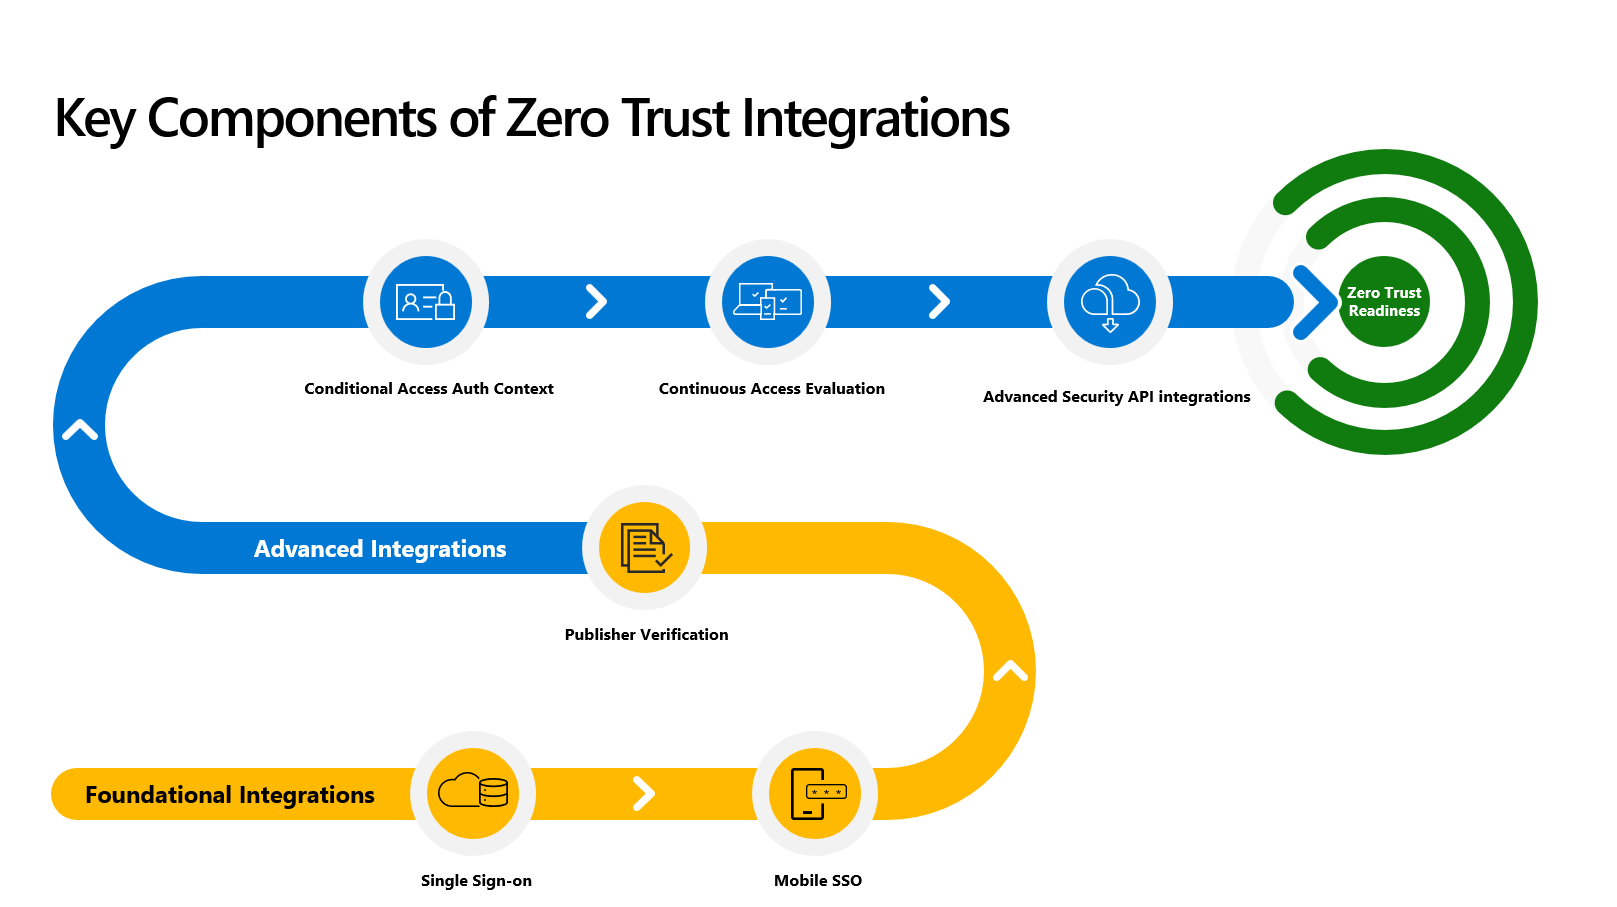
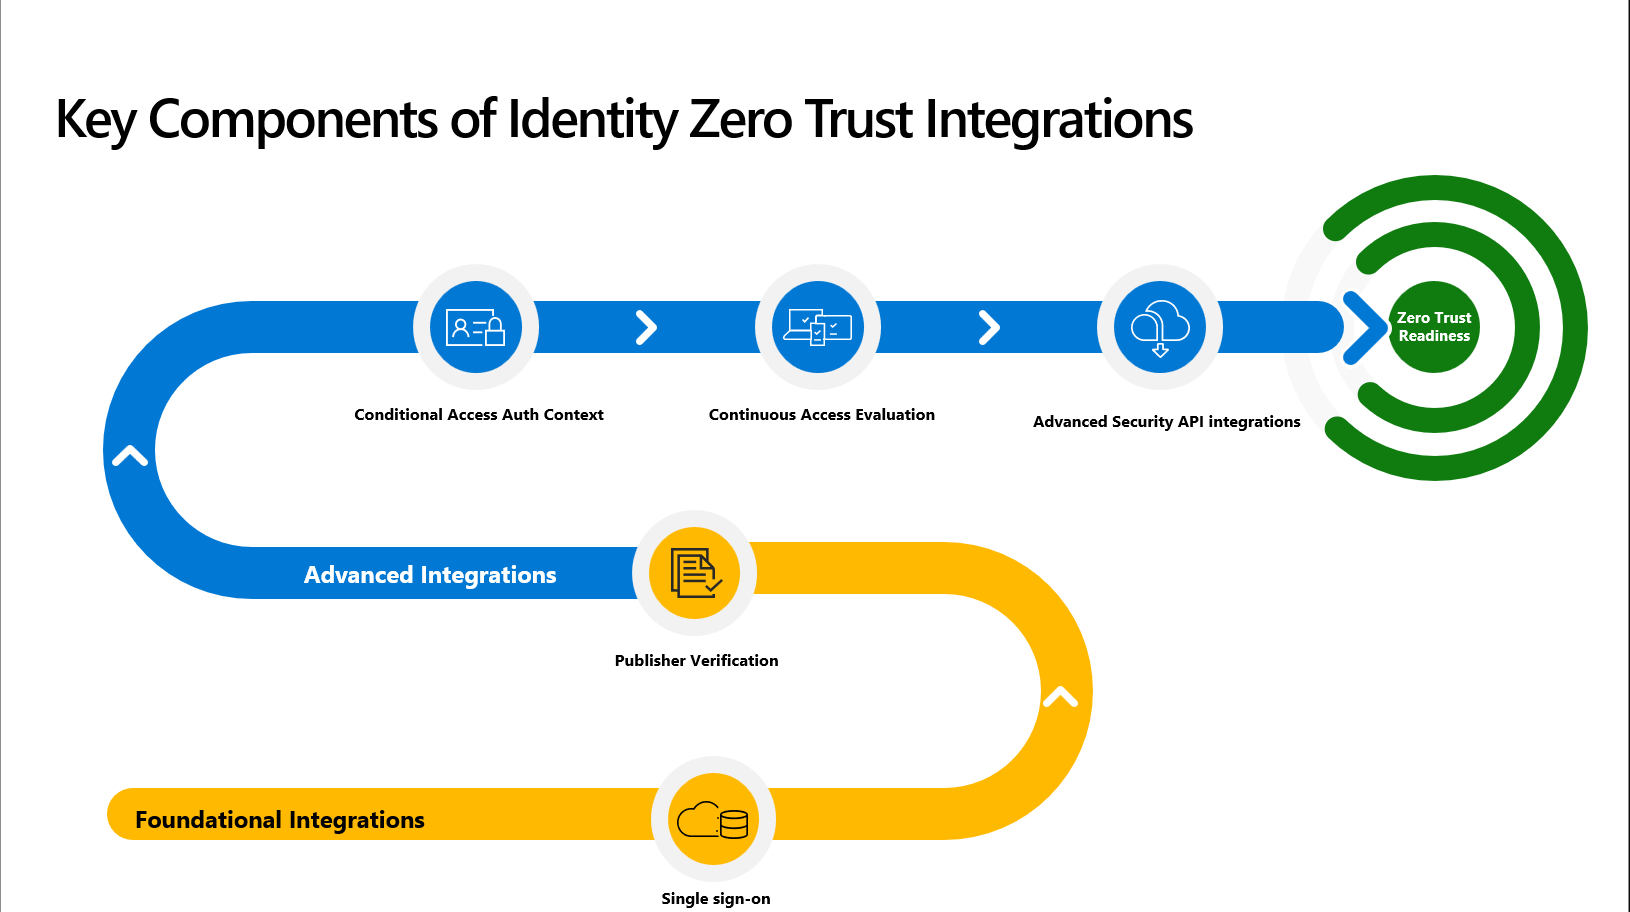
Updating further based on final convos

diff --git a/zero-trust/integrate/identity.md b/zero-trust/integrate/identity.md
@@ -26,7 +26,7 @@ Azure Active Directory B2C is a business-to-customer identity access management 
 
 ## Azure Active Directory
 
-There are many ways to integrate your solution with Azure Active Directory. Foundational integrations are about protecting your customers using Azure Active Directory's built-in security capabilities. Advanced integrations will take your solution even one step further.
+There are many ways to integrate your solution with Azure Active Directory. Foundational integrations are about protecting your customers using Azure Active Directory's built-in security capabilities. Advanced integrations will take your solution one step further with enhanced security capabilities.
 
 :::image type="icon" source="../media/integrate/identity/azure-active-directory-zero-trust-levels.png":::
 
@@ -34,21 +34,21 @@ There are many ways to integrate your solution with Azure Active Directory. Foun
 
 Foundational integrations protect your customers with Azure Active Directory's built-in security capabilities.
 
-#### List your app in the Azure Active Directory App Gallery
+#### Enable single sign-on and publisher verification
 
 To enable single sign-on, we recommend publishing your app in [the app gallery](https://www.microsoft.com/security/business/identity-access-management/integrated-apps-azure-ad). This will increase customer trust, because they know that your application has been validated as compatible with Azure Active Directory, and you can become a [verified publisher](/azure/active-directory/develop/publisher-verification-overview) so that customers are certain you are the publisher of the app they are adding to their tenant.
 
-Add details about mobile SSO
-
 Publishing in the app gallery will make it easy for IT admins to integrate the solution into their tenant with automated app registration. Manual registrations are a common cause of support issues with applications. Adding your app to the gallery will avoid these issues with your app.
+
+For mobile apps, we recommend you use the Microsoft authentication library and a system browser to [implement single sign-on](/azure/active-directory/develop/mobile-sso-support-overview).
 
 #### Integrate user provisioning
 
-Managing identities and access for organizations with thousands of users is challenging. If your solution will be used by large organizations, synchronizing information about users and access between your application and Azure Active Directory is essential. This allows you to effectively scale your identity management systems on both cloud-only and hybrid environments as customers increase their dependence on the cloud.
+Managing identities and access for organizations with thousands of users is challenging. If your solution will be used by large organizations, consider synchronizing information about users and access between your application and Azure Active Directory. This helps keep user access consistent when changes occur.
 
 SCIM (System for Cross-Domain Identity Management) is an open standard for exchanging user identity information. You can use the SCIM user management API to automatically provision users and groups between your application and Azure Active Directory.
 
-Our tutorial on the subject, [develop a SCIM endpoint for user provisioning to apps from Azure Active Directory](/azure/active-directory/app-provisioning/use-scim-to-provision-users-and-groups), describes how to build a SCIM endpoint and integrate with the Azure Active Directory provisioning service. The SCIM specification provides a common user schema for provisioning. When used in conjunction with federation standards like SAML or OpenID Connect, SCIM gives administrators an end-to-end, standards-based solution for access management.
+Our tutorial on the subject, [develop a SCIM endpoint for user provisioning to apps from Azure Active Directory](/azure/active-directory/app-provisioning/use-scim-to-provision-users-and-groups), describes how to build a SCIM endpoint and integrate with the Azure Active Directory provisioning service.
 
 ### Advanced integrations
 
